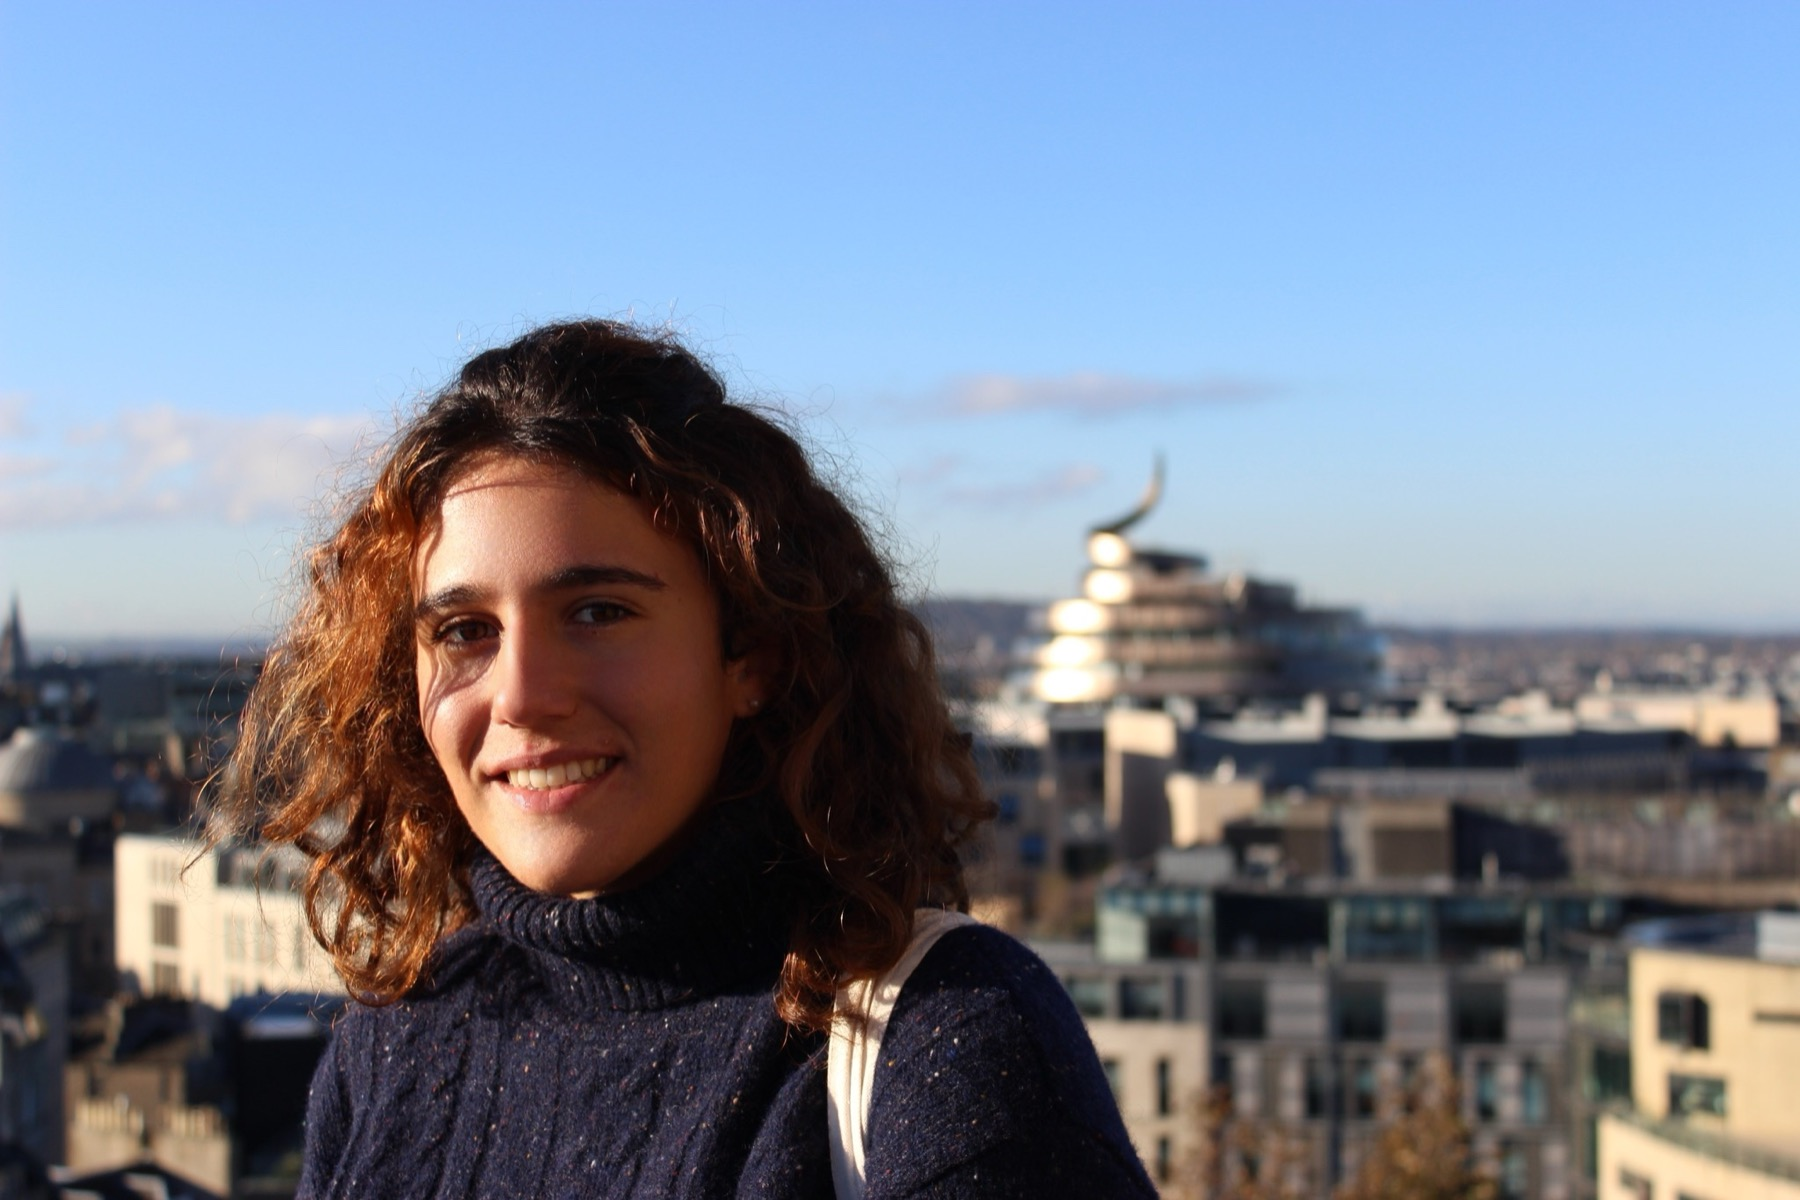
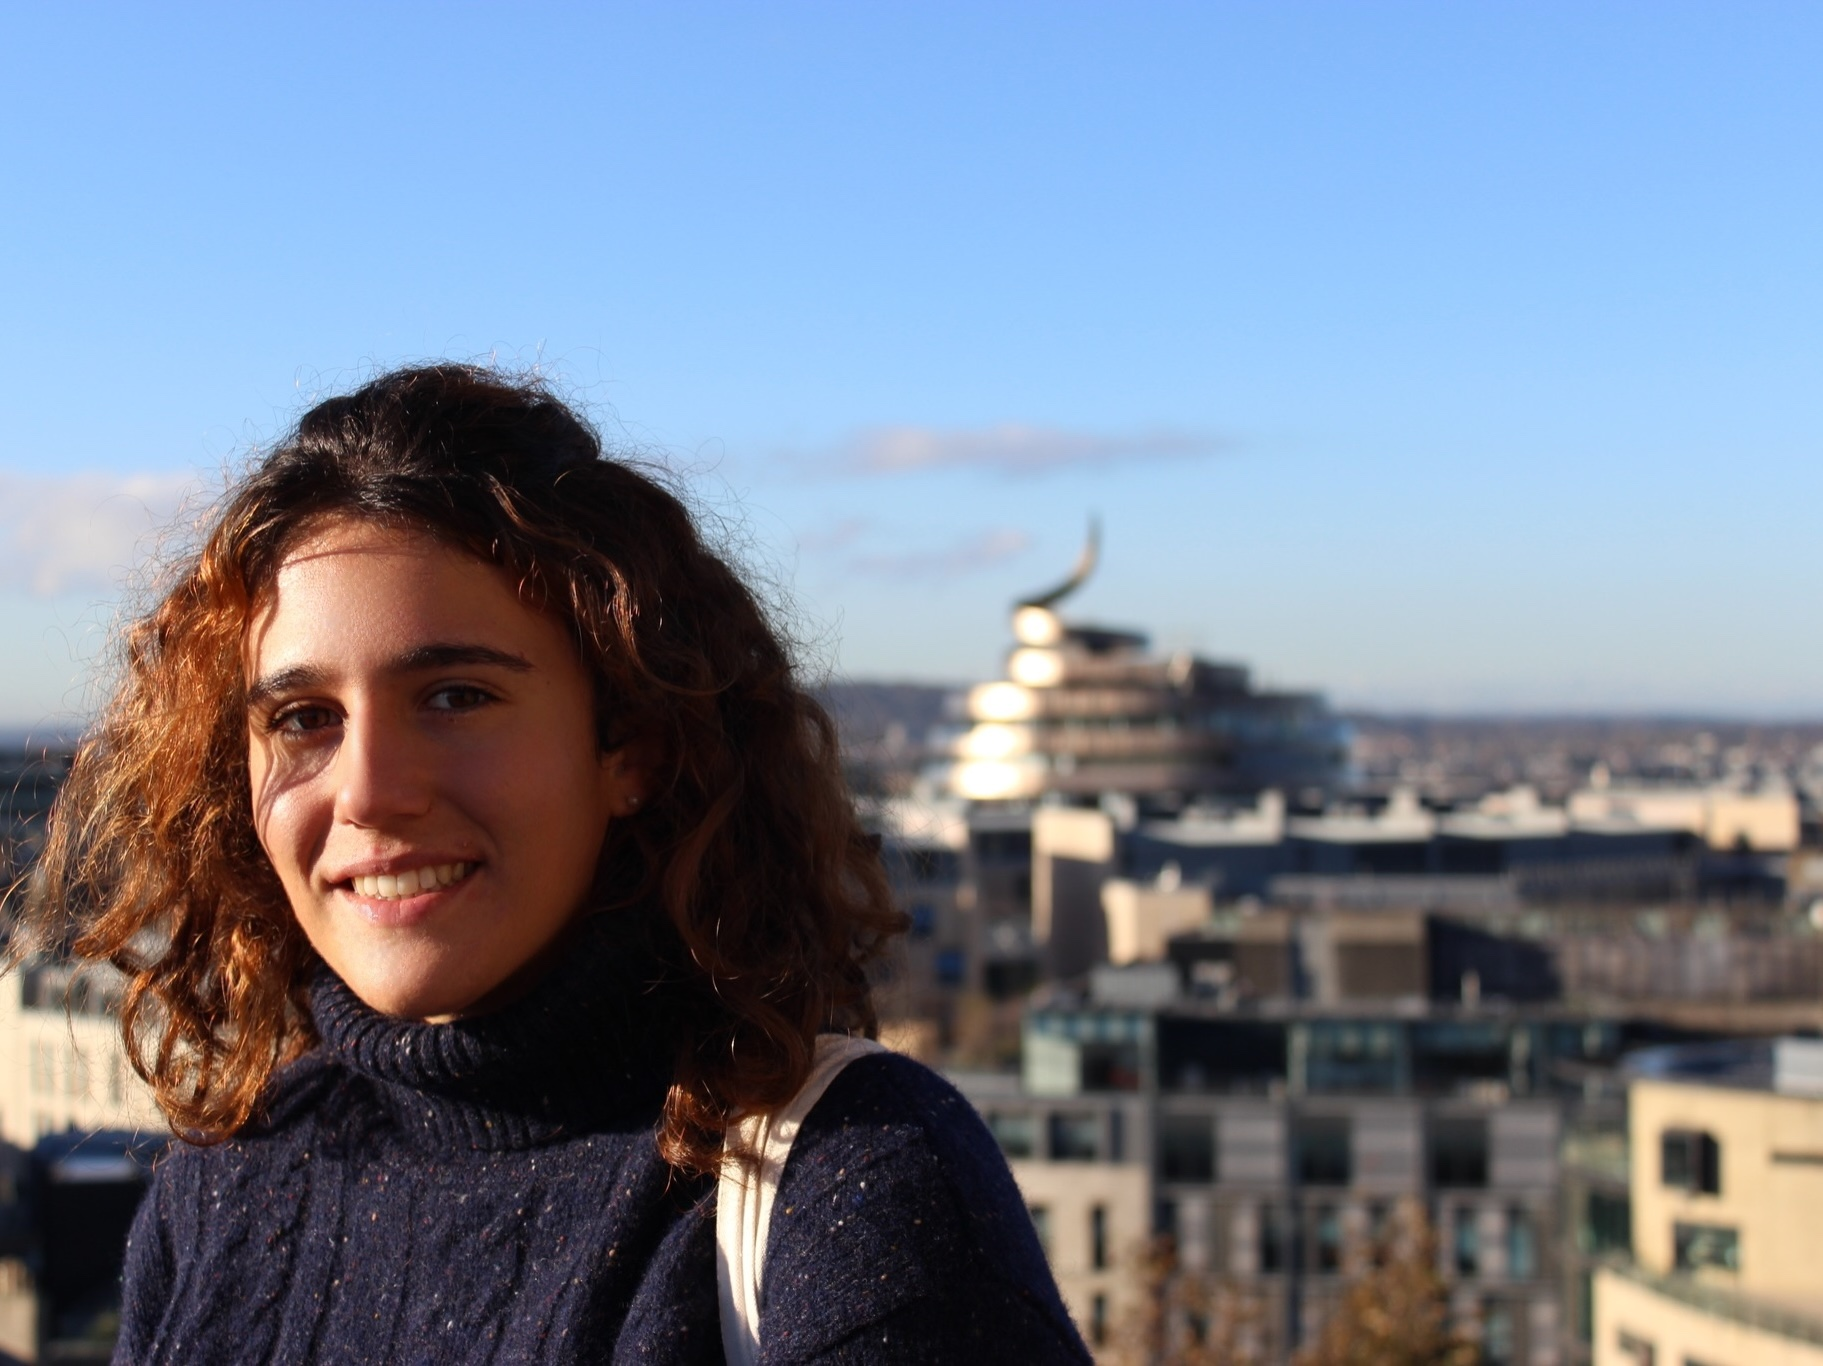
Sharpen the question photo: full-res source, unused left strip cropped
The backdrop had gone soft — it was a double-resampled 1800px file
stretched to 112% width. The image is now re-derived in one pass from
the original 2048px photo recovered from git history, with the unused
left strip (225px of blurry foreground) cropped away at full
resolution — achieving the same left-shifted composition with real
pixels. Display drops to 100% width and 118% height (from 112%/124%),
so the photo renders slightly smaller and at ~1.27 source pixels per
CSS pixel instead of upscaled. Assets bumped to ?v=28.

diff --git a/journey.html b/journey.html
@@ -24,7 +24,7 @@
   <meta property="og:title" content="Journey | Alessia Canuto">
   <meta property="og:description" content="The geography of Alessia Canuto's education and professional experience — Rome, Brussels, Berlin, Nice, Edinburgh, Prague, Astana, Toronto and Los Angeles.">
 
-  <link rel="stylesheet" href="css/style.css?v=27">
+  <link rel="stylesheet" href="css/style.css?v=28">
   <link rel="stylesheet" href="https://unpkg.com/leaflet@1.9.4/dist/leaflet.css"
         integrity="sha256-p4NxAoJBhIIN+hmNHrzRCf9tD/miZyoHS5obTRR9BMY="
         crossorigin="">
@@ -289,7 +289,7 @@
 <script src="https://unpkg.com/leaflet@1.9.4/dist/leaflet.js"
         integrity="sha256-20nQCchB9co0qIjJZRGuk2/Z9VM+kNiyxNV1lvTlZBo="
         crossorigin=""></script>
-<script src="js/main.js?v=27"></script>
+<script src="js/main.js?v=28"></script>
 <script>
 (function() {
   // City data with real coordinates

diff --git a/index.html b/index.html
@@ -27,7 +27,7 @@
   <meta property="og:title" content="Alessia Canuto | Policy, Technology &amp; Sustainability">
   <meta property="og:description" content="Alessia Canuto is a policy and sustainability professional working at the intersection of ESG regulation, AI governance, socioeconomic development, behavioural science and technology.">
 
-  <link rel="stylesheet" href="css/style.css?v=27">
+  <link rel="stylesheet" href="css/style.css?v=28">
 </head>
 <body>
 
@@ -564,6 +564,6 @@
   </div>
 </footer>
 
-<script src="js/main.js?v=27"></script>
+<script src="js/main.js?v=28"></script>
 </body>
 </html>

diff --git a/404.html b/404.html
@@ -13,7 +13,7 @@
   <link href="https://fonts.googleapis.com/css2?family=Playfair+Display:ital,wght@0,400..900;1,400..900&family=DM+Sans:ital,opsz,wght@0,9..40,400..700;1,9..40,400..700&family=Dancing+Script:wght@400..700&display=swap" rel="stylesheet">
 
   <link rel="icon" href="images/favicon.svg" type="image/svg+xml">
-  <link rel="stylesheet" href="css/style.css?v=27">
+  <link rel="stylesheet" href="css/style.css?v=28">
 </head>
 <body>
 
@@ -45,6 +45,6 @@
   </div>
 </footer>
 
-<script src="js/main.js?v=27"></script>
+<script src="js/main.js?v=28"></script>
 </body>
 </html>

diff --git a/about.html b/about.html
@@ -24,7 +24,7 @@
   <meta property="og:title" content="About | Alessia Canuto">
   <meta property="og:description" content="About Alessia Canuto — a consultant working at the intersection of ESG regulation, AI governance, socioeconomic development and behavioural science.">
 
-  <link rel="stylesheet" href="css/style.css?v=27">
+  <link rel="stylesheet" href="css/style.css?v=28">
 </head>
 <body>
 
@@ -325,6 +325,6 @@
   </div>
 </footer>
 
-<script src="js/main.js?v=27"></script>
+<script src="js/main.js?v=28"></script>
 </body>
 </html>

diff --git a/work.html b/work.html
@@ -24,7 +24,7 @@
   <meta property="og:title" content="Work | Alessia Canuto">
   <meta property="og:description" content="Six case studies — analysing policy and AI systems, translating ESG regulation for the people who act on it, and building with emerging technology.">
 
-  <link rel="stylesheet" href="css/style.css?v=27">
+  <link rel="stylesheet" href="css/style.css?v=28">
 </head>
 <body>
 
@@ -453,6 +453,6 @@
   </div>
 </footer>
 
-<script src="js/main.js?v=27"></script>
+<script src="js/main.js?v=28"></script>
 </body>
 </html>

diff --git a/cv.html b/cv.html
@@ -24,7 +24,7 @@
   <meta property="og:title" content="CV | Alessia Canuto">
   <meta property="og:description" content="Interactive CV of Alessia Canuto — experience, education, certifications, skills, languages and selected publications, with downloadable documents.">
 
-  <link rel="stylesheet" href="css/style.css?v=27">
+  <link rel="stylesheet" href="css/style.css?v=28">
 </head>
 <body>
 
@@ -398,6 +398,6 @@
   </div>
 </footer>
 
-<script src="js/main.js?v=27"></script>
+<script src="js/main.js?v=28"></script>
 </body>
 </html>

diff --git a/contact.html b/contact.html
@@ -24,7 +24,7 @@
   <meta property="og:title" content="Contact | Alessia Canuto">
   <meta property="og:description" content="Get in touch with Alessia Canuto about policy, ESG and sustainability, AI governance, research, speaking or collaboration.">
 
-  <link rel="stylesheet" href="css/style.css?v=27">
+  <link rel="stylesheet" href="css/style.css?v=28">
 </head>
 <body>
 
@@ -149,6 +149,6 @@
   </div>
 </footer>
 
-<script src="js/main.js?v=27"></script>
+<script src="js/main.js?v=28"></script>
 </body>
 </html>

diff --git a/thinking.html b/thinking.html
@@ -24,7 +24,7 @@
   <meta property="og:title" content="Thinking | Alessia Canuto">
   <meta property="og:description" content="Research, writing and ideas from Alessia Canuto about policy, technology, sustainability and human behaviour.">
 
-  <link rel="stylesheet" href="css/style.css?v=27">
+  <link rel="stylesheet" href="css/style.css?v=28">
 </head>
 <body>
 
@@ -298,6 +298,6 @@
   </div>
 </footer>
 
-<script src="js/main.js?v=27"></script>
+<script src="js/main.js?v=28"></script>
 </body>
 </html>

diff --git a/css/style.css b/css/style.css
@@ -1048,11 +1048,10 @@ section { padding-block: var(--section-pad); }
 .question-bg { position: absolute; inset: 0; z-index: 0; overflow: hidden; }
 .question-bg img {
   position: absolute;
-  right: 0;
-  left: auto;
-  top: -12%;
-  width: 112%;
-  height: 124%;
+  inset: 0;
+  top: -9%;
+  width: 100%;
+  height: 118%;
   object-fit: cover;
   object-position: 50% 30%;
   will-change: transform;
